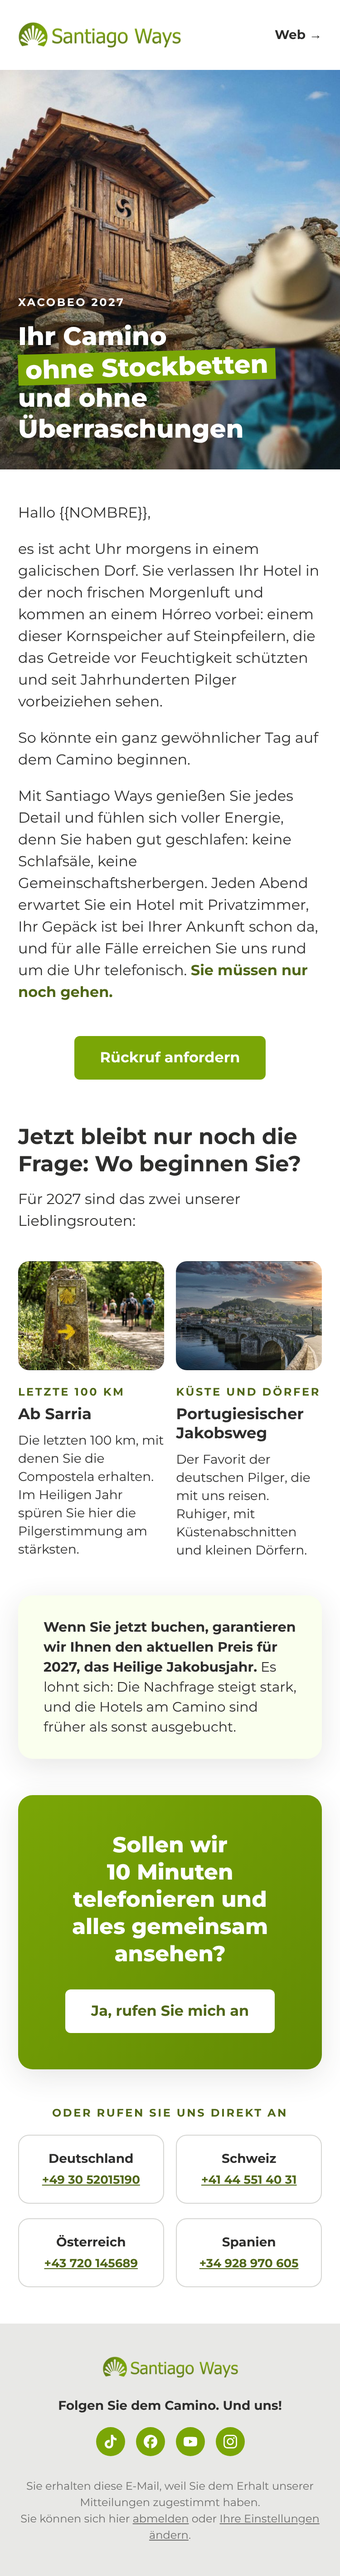
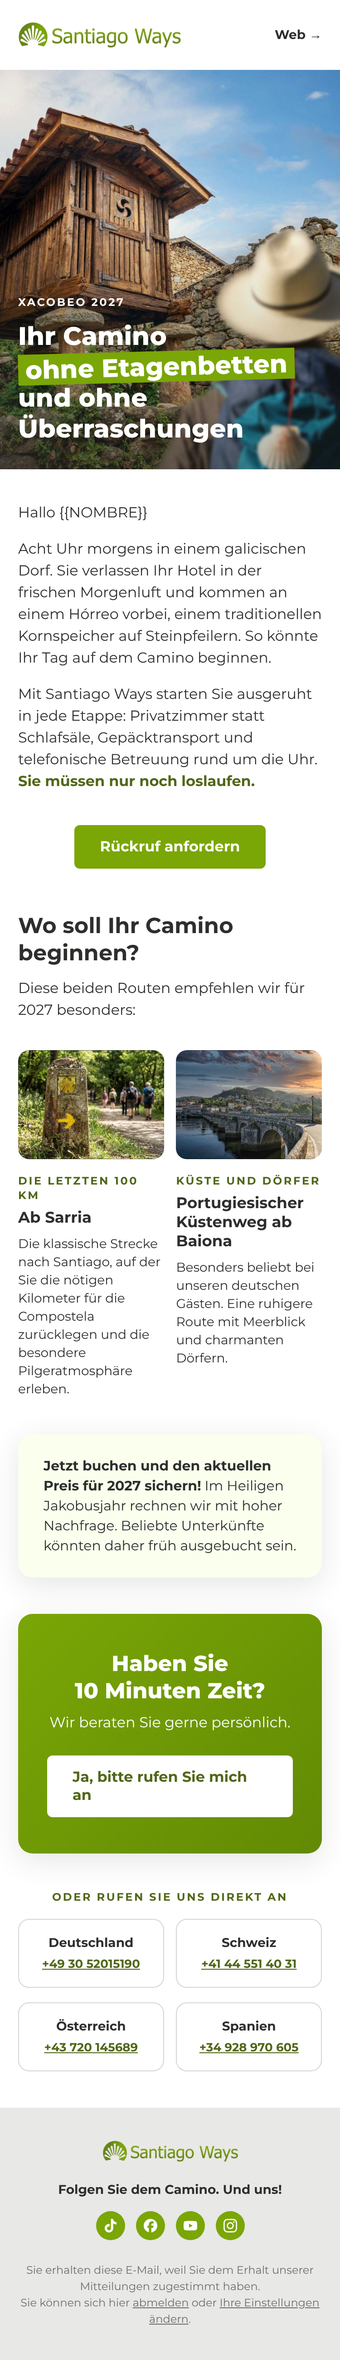
Aplica el texto alemán revisado (Etagenbetten, nuevas rutas y cierre)
Claude-Session: https://claude.ai/code/session_01Me985ukrjjPqHCtXmJhT7t

diff --git a/emails/2026-10-push-de-envio1/email.html b/emails/2026-10-push-de-envio1/email.html
@@ -7,7 +7,7 @@
   <meta name="x-apple-disable-message-reformatting">
   <meta name="color-scheme" content="light">
   <meta name="supported-color-schemes" content="light">
-  <title>Ihr Camino ohne Stockbetten und ohne Überraschungen</title>
+  <title>Ihr Camino ohne Etagenbetten und ohne Überraschungen</title>
   <!--[if mso]>
   <noscript><xml><o:OfficeDocumentSettings><o:PixelsPerInch>96</o:PixelsPerInch></o:OfficeDocumentSettings></xml></noscript>
   <style>* { font-family: Arial, Helvetica, sans-serif !important; }</style>
@@ -80,7 +80,7 @@
                       <tr>
                         <td class="hero-txt" width="400" style="width:400px; padding:0 32px 32px; font-family:'Montserrat', Arial, Helvetica, sans-serif; color:#FFFFFF;">
                           <p style="margin:0 0 12px; font-size:12px; line-height:16px; font-weight:700; letter-spacing:0.15em; text-transform:uppercase; color:#FFFFFF;">Xacobeo 2027</p>
-                          <h1 class="h1" style="margin:0; font-family:'Montserrat', Arial, Helvetica, sans-serif; font-size:34px; line-height:42px; font-weight:800; color:#FFFFFF;">Ihr Camino <span style="display:inline-block; background-color:#7AA606; color:#FFFFFF; padding:0 8px; transform:rotate(-1.5deg);">ohne Stockbetten</span> und ohne Überraschungen</h1>
+                          <h1 class="h1" style="margin:0; font-family:'Montserrat', Arial, Helvetica, sans-serif; font-size:34px; line-height:42px; font-weight:800; color:#FFFFFF;">Ihr Camino <span style="display:inline-block; background-color:#7AA606; color:#FFFFFF; padding:0 8px; transform:rotate(-1.5deg);">ohne Etagenbetten</span> und ohne Überraschungen</h1>
                         </td>
                       </tr>
                     </table>
@@ -97,10 +97,9 @@
           <!-- Texto principal -->
           <tr>
             <td class="pad" style="padding:36px 32px 8px; font-family:'Montserrat', Arial, Helvetica, sans-serif; font-size:16px; line-height:24px; font-weight:400; color:#2E2E2D;">
-              <p style="margin:0 0 16px;">Hallo {{NOMBRE}},</p>
-              <p style="margin:0 0 16px;">es ist acht Uhr morgens in einem galicischen Dorf. Sie verlassen Ihr Hotel in der noch frischen Morgenluft und kommen an einem Hórreo vorbei: einem dieser Kornspeicher auf Steinpfeilern, die das Getreide vor Feuchtigkeit schützten und seit Jahrhunderten Pilger vorbeiziehen sehen.</p>
-              <p style="margin:0 0 16px;">So könnte ein ganz gewöhnlicher Tag auf dem Camino beginnen.</p>
-              <p style="margin:0;">Mit Santiago Ways genießen Sie jedes Detail und fühlen sich voller Energie, denn Sie haben gut geschlafen: keine Schlafsäle, keine Gemeinschaftsherbergen. Jeden Abend erwartet Sie ein Hotel mit Privatzimmer, Ihr Gepäck ist bei Ihrer Ankunft schon da, und für alle Fälle erreichen Sie uns rund um die Uhr telefonisch. <strong style="font-weight:700; color:#506718;">Sie müssen nur noch gehen.</strong></p>
+              <p style="margin:0 0 16px;">Hallo {{NOMBRE}}</p>
+              <p style="margin:0 0 16px;">Acht Uhr morgens in einem galicischen Dorf. Sie verlassen Ihr Hotel in der frischen Morgenluft und kommen an einem Hórreo vorbei, einem traditionellen Kornspeicher auf Steinpfeilern. So könnte Ihr Tag auf dem Camino beginnen.</p>
+              <p style="margin:0;">Mit Santiago Ways starten Sie ausgeruht in jede Etappe: Privatzimmer statt Schlafsäle, Gepäcktransport und telefonische Betreuung rund um die Uhr. <strong style="font-weight:700; color:#506718;">Sie müssen nur noch loslaufen.</strong></p>
             </td>
           </tr>
 
@@ -120,8 +119,8 @@
           <!-- Rutas: título -->
           <tr>
             <td class="pad" style="padding:0 32px 8px; font-family:'Montserrat', Arial, Helvetica, sans-serif;">
-              <h2 class="h2" style="margin:0 0 12px; font-family:'Montserrat', Arial, Helvetica, sans-serif; font-size:28px; line-height:34px; font-weight:700; color:#2E2E2D;">Jetzt bleibt nur noch die Frage: Wo beginnen Sie?</h2>
-              <p style="margin:0 0 24px; font-size:16px; line-height:24px; color:#2E2E2D;">Für 2027 sind das zwei unserer Lieblingsrouten:</p>
+              <h2 class="h2" style="margin:0 0 12px; font-family:'Montserrat', Arial, Helvetica, sans-serif; font-size:28px; line-height:34px; font-weight:700; color:#2E2E2D;">Wo soll Ihr Camino beginnen?</h2>
+              <p style="margin:0 0 24px; font-size:16px; line-height:24px; color:#2E2E2D;">Diese beiden Routen empfehlen wir für 2027 besonders:</p>
             </td>
           </tr>
 
@@ -132,16 +131,16 @@
                 <tr>
                   <td class="ruta" width="260" valign="top" style="width:260px; font-family:'Montserrat', Arial, Helvetica, sans-serif;">
                     <a href="https://santiagoways.com/de/der-jakobsweg/camino-frances/ab-sarria/?utm_source=zoho_campaigns&amp;utm_medium=newsletter&amp;utm_campaign=push_de&amp;utm_content=envio1" target="_blank"><img class="ruta-img" src="https://campaigns.zoho.com/campaigns/org635901702/ImageDisplayAction.do?imgName=ruta_sarria.jpg&amp;folderId=764465000000446002&amp;currentTime=1791994950368&amp;zx=1365ac70f" width="260" alt="Steinerner Wegweiser mit gelber Muschel und Pfeil, dahinter Pilger auf einem Waldweg bei Sarria" style="display:block; border:0; width:260px; max-width:260px; height:auto; border-radius:12px;"></a>
-                    <p style="margin:16px 0 6px; font-size:12px; line-height:16px; font-weight:700; letter-spacing:0.15em; text-transform:uppercase; color:#506718;">Letzte 100 km</p>
+                    <p style="margin:16px 0 6px; font-size:12px; line-height:16px; font-weight:700; letter-spacing:0.15em; text-transform:uppercase; color:#506718;">Die letzten 100 km</p>
                     <p class="ruta-t" style="margin:0 0 8px; font-size:22px; line-height:26px; font-weight:700;"><a href="https://santiagoways.com/de/der-jakobsweg/camino-frances/ab-sarria/?utm_source=zoho_campaigns&amp;utm_medium=newsletter&amp;utm_campaign=push_de&amp;utm_content=envio1" target="_blank" style="color:#2E2E2D; text-decoration:none;">Ab Sarria</a></p>
-                    <p class="ruta-p" style="margin:0; font-size:15px; line-height:22px; color:#2E2E2D;">Die letzten 100 km, mit denen Sie die Compostela erhalten. Im Heiligen Jahr spüren Sie hier die Pilgerstimmung am stärksten.</p>
+                    <p class="ruta-p" style="margin:0; font-size:15px; line-height:22px; color:#2E2E2D;">Die klassische Strecke nach Santiago, auf der Sie die nötigen Kilometer für die Compostela zurücklegen und die besondere Pilgeratmosphäre erleben.</p>
                   </td>
                   <td class="ruta-sep" width="16" style="width:16px; font-size:0; line-height:0;">&nbsp;</td>
                   <td class="ruta" width="260" valign="top" style="width:260px; font-family:'Montserrat', Arial, Helvetica, sans-serif;">
                     <a href="https://santiagoways.com/de/der-jakobsweg/camino-portugues-kuestenweg/ab-baiona/?utm_source=zoho_campaigns&amp;utm_medium=newsletter&amp;utm_campaign=push_de&amp;utm_content=envio1" target="_blank"><img class="ruta-img" src="https://campaigns.zoho.com/campaigns/org635901702/ImageDisplayAction.do?imgName=ruta_portugues.jpg&amp;folderId=764465000000446002&amp;currentTime=1791994950368&amp;zx=1365ac70f" width="260" alt="Alte Steinbrücke über einen Fluss, dahinter ein Dorf am Portugiesischen Jakobsweg bei Sonnenuntergang" style="display:block; border:0; width:260px; max-width:260px; height:auto; border-radius:12px;"></a>
                     <p style="margin:16px 0 6px; font-size:12px; line-height:16px; font-weight:700; letter-spacing:0.15em; text-transform:uppercase; color:#506718;">Küste und Dörfer</p>
-                    <p class="ruta-t" style="margin:0 0 8px; font-size:22px; line-height:26px; font-weight:700;"><a href="https://santiagoways.com/de/der-jakobsweg/camino-portugues-kuestenweg/ab-baiona/?utm_source=zoho_campaigns&amp;utm_medium=newsletter&amp;utm_campaign=push_de&amp;utm_content=envio1" target="_blank" style="color:#2E2E2D; text-decoration:none;">Portugiesischer Jakobsweg</a></p>
-                    <p class="ruta-p" style="margin:0; font-size:15px; line-height:22px; color:#2E2E2D;">Der Favorit der deutschen Pilger, die mit uns reisen. Ruhiger, mit Küstenabschnitten und kleinen Dörfern.</p>
+                    <p class="ruta-t" style="margin:0 0 8px; font-size:22px; line-height:26px; font-weight:700;"><a href="https://santiagoways.com/de/der-jakobsweg/camino-portugues-kuestenweg/ab-baiona/?utm_source=zoho_campaigns&amp;utm_medium=newsletter&amp;utm_campaign=push_de&amp;utm_content=envio1" target="_blank" style="color:#2E2E2D; text-decoration:none;">Portugiesischer Küstenweg ab Baiona</a></p>
+                    <p class="ruta-p" style="margin:0; font-size:15px; line-height:22px; color:#2E2E2D;">Besonders beliebt bei unseren deutschen Gästen. Eine ruhigere Route mit Meerblick und charmanten Dörfern.</p>
                   </td>
                 </tr>
               </table>
@@ -154,7 +153,7 @@
               <table role="presentation" width="100%" cellpadding="0" cellspacing="0" border="0">
                 <tr>
                   <td bgcolor="#FAFFEE" style="background-color:#FAFFEE; border-radius:16px; box-shadow:0 8px 32px rgba(46,46,45,0.12); padding:24px 28px; font-family:'Montserrat', Arial, Helvetica, sans-serif; font-size:15px; line-height:22px; color:#2E2E2D;">
-                    <strong style="font-weight:700;">Wenn Sie jetzt buchen, garantieren wir Ihnen den aktuellen Preis für 2027, das Heilige Jakobusjahr.</strong> Es lohnt sich: Die Nachfrage steigt stark, und die Hotels am Camino sind früher als sonst ausgebucht.
+                    <strong style="font-weight:700;">Jetzt buchen und den aktuellen Preis für 2027 sichern!</strong> Im Heiligen Jakobusjahr rechnen wir mit hoher Nachfrage. Beliebte Unterkünfte könnten daher früh ausgebucht sein.
                   </td>
                 </tr>
               </table>
@@ -167,11 +166,12 @@
               <table role="presentation" width="100%" cellpadding="0" cellspacing="0" border="0">
                 <tr>
                   <td bgcolor="#7AA606" align="center" style="background-color:#7AA606; background-image:linear-gradient(135deg,#7AA606 0%,#628A04 100%); border-radius:16px; box-shadow:0 8px 32px rgba(46,46,45,0.12); padding:40px 32px; font-family:'Montserrat', Arial, Helvetica, sans-serif; color:#FFFFFF;">
-                    <p class="h2" style="margin:0 0 24px; font-size:26px; line-height:32px; font-weight:800; color:#FFFFFF;">Sollen wir 10&nbsp;Minuten telefonieren und alles gemeinsam ansehen?</p>
+                    <p class="h2" style="margin:0 0 8px; font-size:26px; line-height:32px; font-weight:800; color:#FFFFFF;">Haben Sie 10&nbsp;Minuten Zeit?</p>
+                    <p style="margin:0 0 24px; font-size:16px; line-height:24px; font-weight:400; color:#FFFFFF;">Wir beraten Sie gerne persönlich.</p>
                     <table role="presentation" cellpadding="0" cellspacing="0" border="0" align="center">
                       <tr>
                         <td bgcolor="#FFFFFF" style="background-color:#FFFFFF; border-radius:6px;">
-                          <a href="https://forms.zohopublic.com/santiagoways/form/rueckruf/formperma/4A1Vr0SY3x6PB5LVbDz1jbqyLyayzFhMqCk7CxDHHfw" target="_blank" style="display:inline-block; padding:14px 28px; font-family:'Montserrat', Arial, Helvetica, sans-serif; font-size:16px; line-height:20px; font-weight:700; color:#506718; text-decoration:none; border-radius:6px;">Ja, rufen Sie mich an</a>
+                          <a href="https://forms.zohopublic.com/santiagoways/form/rueckruf/formperma/4A1Vr0SY3x6PB5LVbDz1jbqyLyayzFhMqCk7CxDHHfw" target="_blank" style="display:inline-block; padding:14px 28px; font-family:'Montserrat', Arial, Helvetica, sans-serif; font-size:16px; line-height:20px; font-weight:700; color:#506718; text-decoration:none; border-radius:6px;">Ja, bitte rufen Sie mich an</a>
                         </td>
                       </tr>
                     </table>
